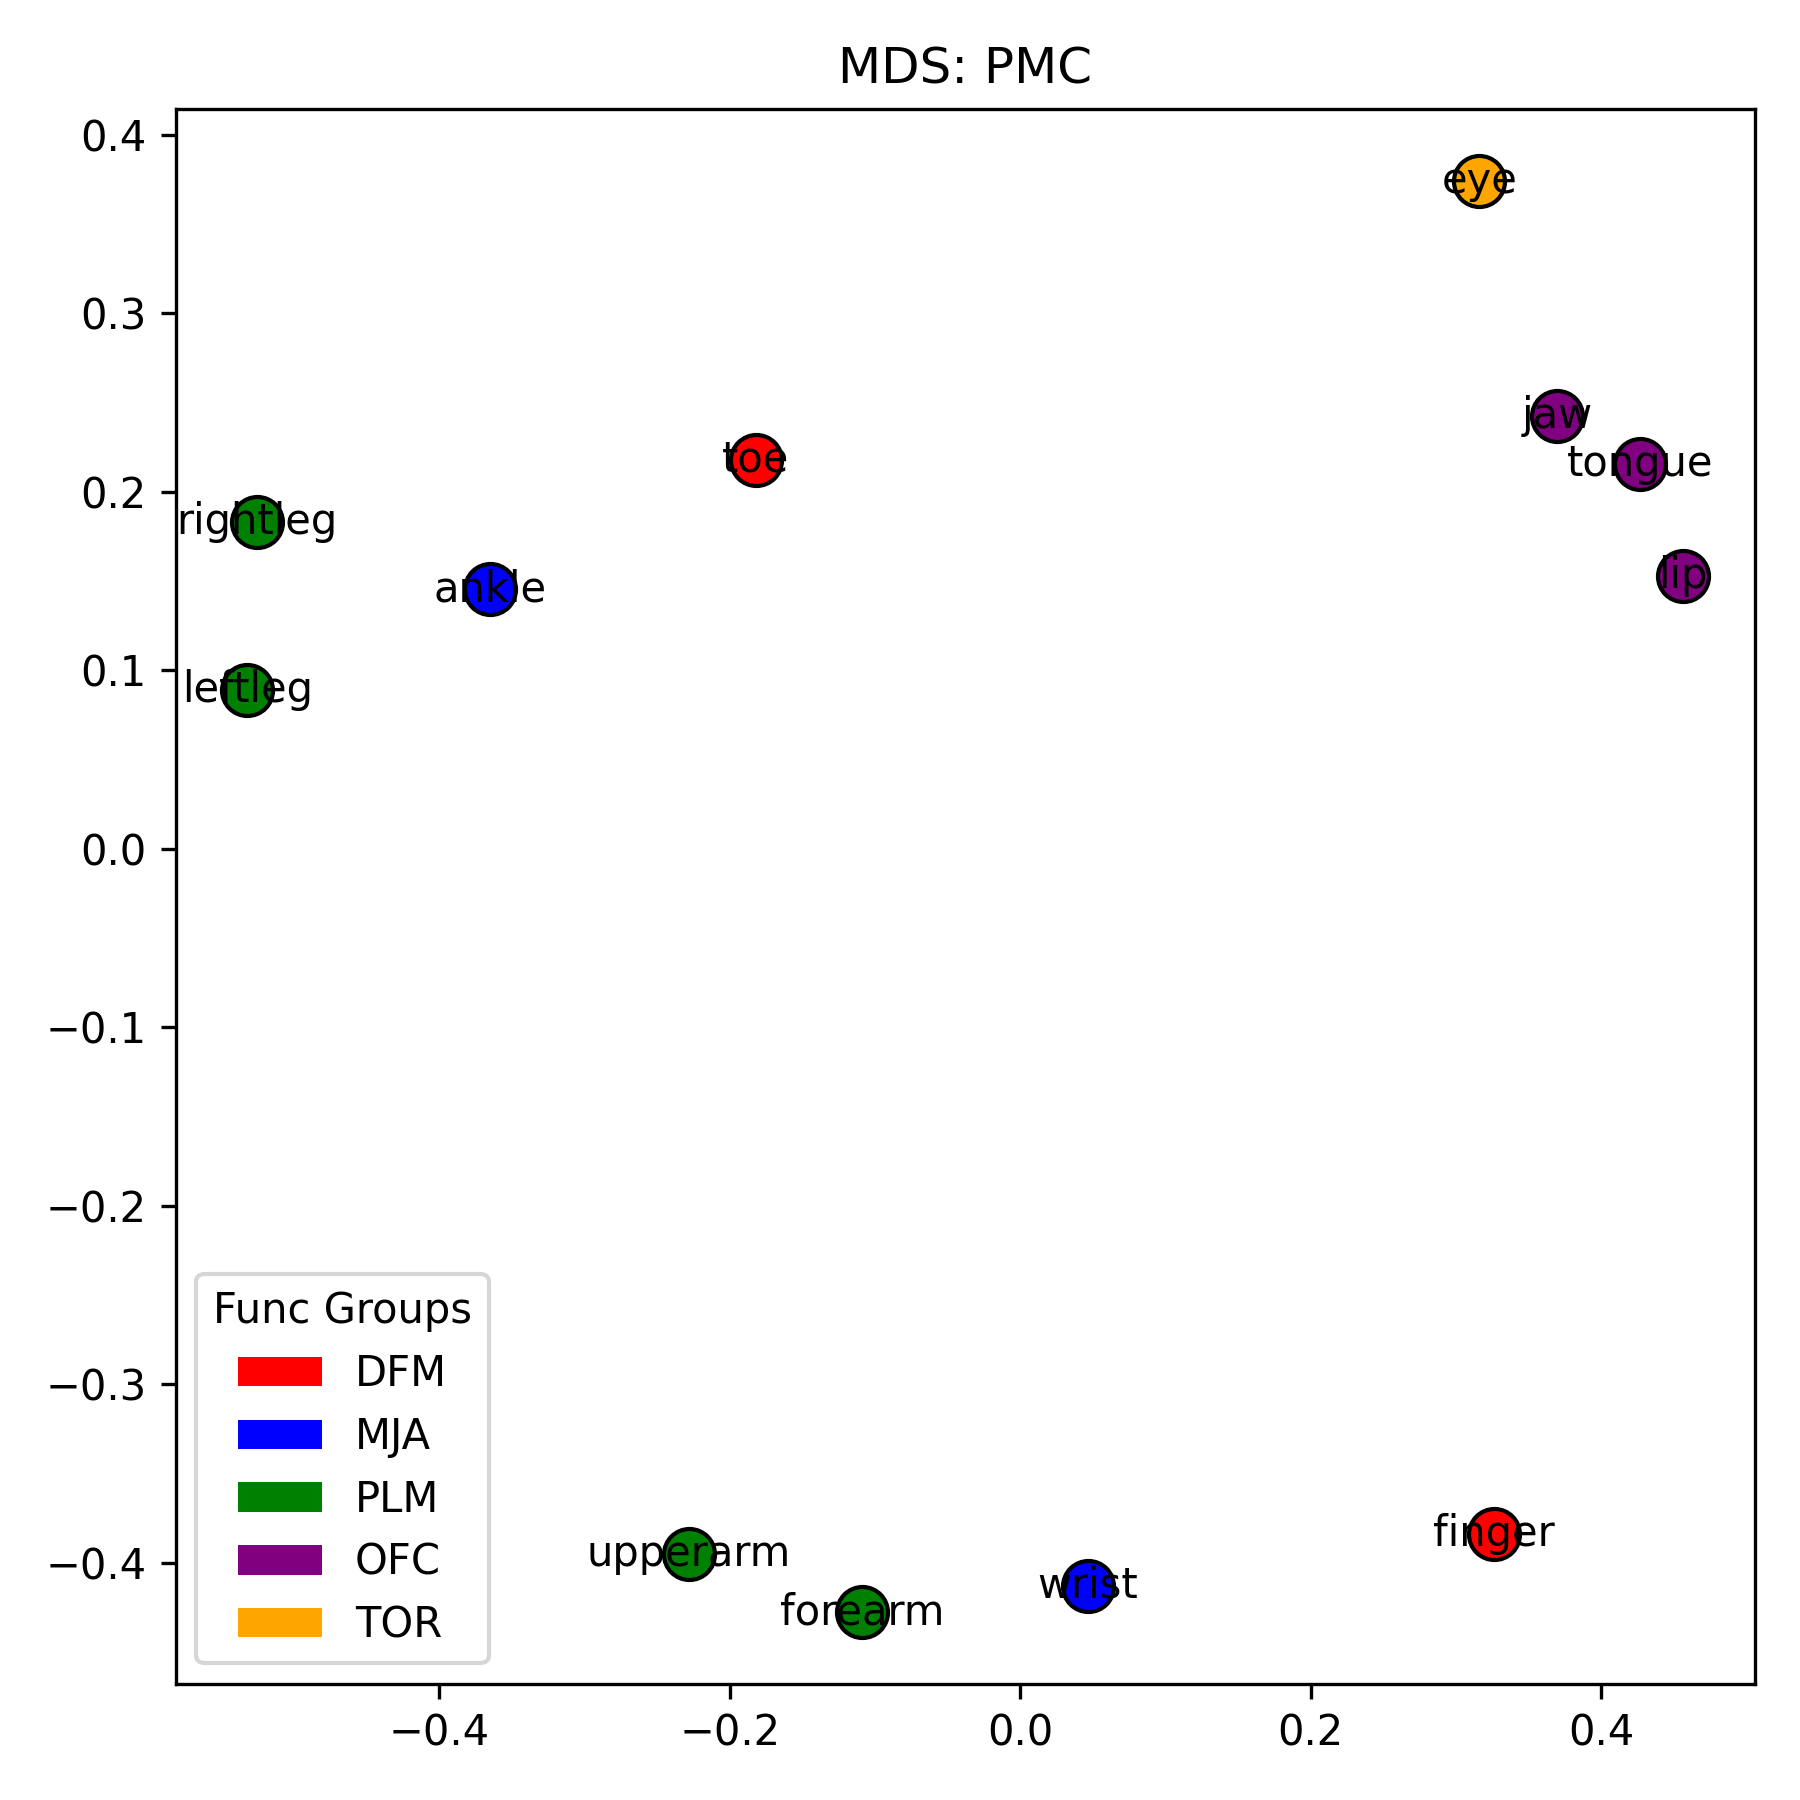
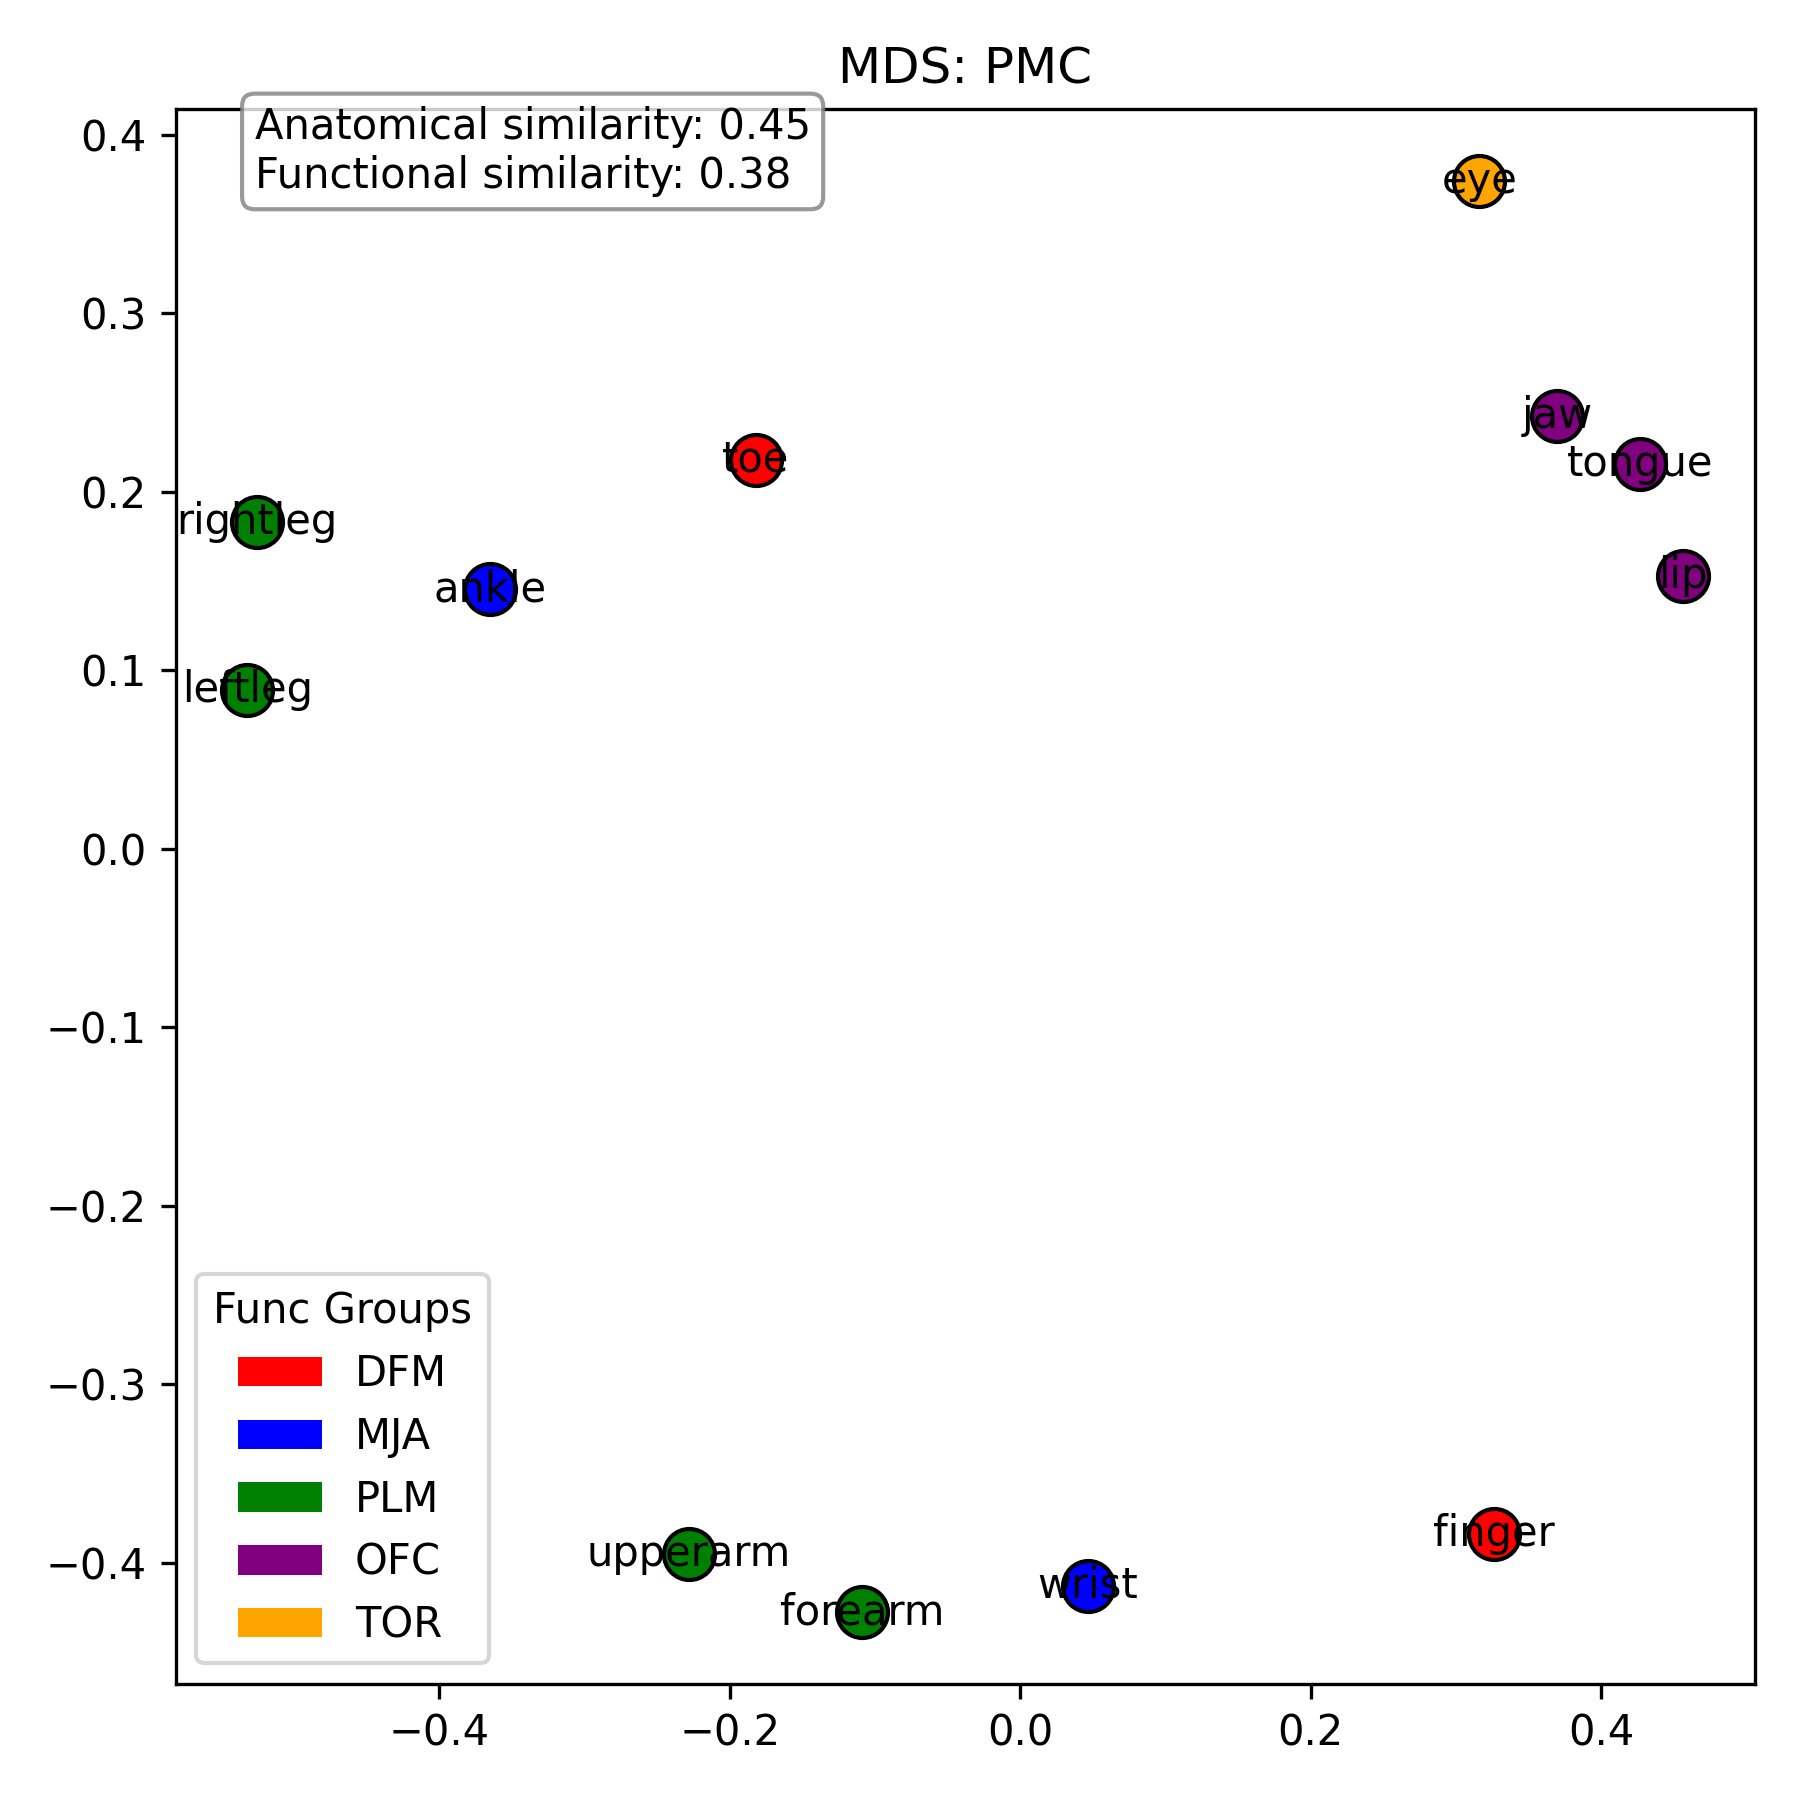
func group variations

Changed region(s): [[0.1244, 0.0311, 0.4667, 0.1244]]

diff --git a/sub_anlysis.py b/sub_anlysis.py
@@ -98,20 +98,51 @@ func_group = {
     'eye':'TOR'
 }
 
-# func_group = {
-#     'ankle':'FOOT_JOINT',
-#     'eye':'VISUAL_CONTROL',
-#     'finger':'HAND_FINE',
-#     'forearm':'ARM_CONTROL',
-#     'jaw':'FACE_CONTROL',
-#     'leftleg':'LEG_CONTROL',
-#     'lip':'FACE_CONTROL',
-#     'rightleg':'LEG_CONTROL',
-#     'toe':'FOOT_FINE',
-#     'tongue':'ORAL_CONTROL',
-#     'upperarm':'ARM_CONTROL',
-#     'wrist':'HAND_JOINT',
+# func_group = { # by goal
+#     'toe': 'BALANCE',        # Balance and stability
+#     'finger': 'MANIPULATION', # Object manipulation/precision
+#     'ankle': 'LOCOMOTION',    # Walking/running
+#     'wrist': 'MANIPULATION',  # Object handling/gesturing
+#     'leftleg': 'LOCOMOTION',  # Ambulation
+#     'rightleg': 'LOCOMOTION', # Ambulation
+#     'forearm': 'REACHING',    # Extending to objects
+#     'upperarm': 'REACHING',   # Gross arm positioning
+#     'jaw': 'INGESTION',       # Eating
+#     'lip': 'COMMUNICATION',   # Speech/expression
+#     'tongue': 'DUAL',         # Both speech and ingestion
+#     'eye': 'PERCEPTION'       # Visual targeting
 # }
+
+# func_group = { # by coordination
+#     'toe': 'FOOT_COMPLEX',       # Toes work with ankles
+#     'finger': 'HAND_COMPLEX',    # Fingers work with wrist
+#     'ankle': 'FOOT_COMPLEX',     # Ankle works with toe, leg
+#     'wrist': 'HAND_COMPLEX',     # Wrist works with fingers, forearm
+#     'leftleg': 'POSTURAL',       # Bilateral leg coordination
+#     'rightleg': 'POSTURAL',      # Bilateral leg coordination
+#     'forearm': 'ARM_CHAIN',      # Linked with upper arm and wrist
+#     'upperarm': 'ARM_CHAIN',     # Works with shoulder, forearm
+#     'jaw': 'VOCAL_ARTICULATORY', # Speech production with lips/tongue
+#     'lip': 'VOCAL_ARTICULATORY', # Articulation with jaw/tongue
+#     'tongue': 'VOCAL_ARTICULATORY', # Works with lips/jaw for speech
+#     'eye': 'VISUO_MOTOR'         # Eye-hand coordination
+# }
+
+# func_group = { # by task
+#     'toe': 'PRECISION_LOWER',    # Fine control of foot placement
+#     'finger': 'PRECISION_UPPER', # Detailed manipulation
+#     'ankle': 'STABILITY_LOWER',  # Lower limb stability
+#     'wrist': 'STABILITY_UPPER',  # Upper limb stability
+#     'leftleg': 'POWER_LOWER',    # Force generation/support
+#     'rightleg': 'POWER_LOWER',   # Force generation/support
+#     'forearm': 'POWER_UPPER',    # Force application
+#     'upperarm': 'POWER_UPPER',   # Force application
+#     'jaw': 'CONSUMPTIVE',        # Food processing
+#     'lip': 'EXPRESSIVE',         # Emotional display
+#     'tongue': 'SENSORY_ORAL',    # Taste and texture sensing
+#     'eye': 'SENSORY_VISUAL'      # Visual information
+# }
+
 func_rdm = np.zeros((len(parts), len(parts)))
 for i, p1 in enumerate(parts):
     for j, p2 in enumerate(parts):
